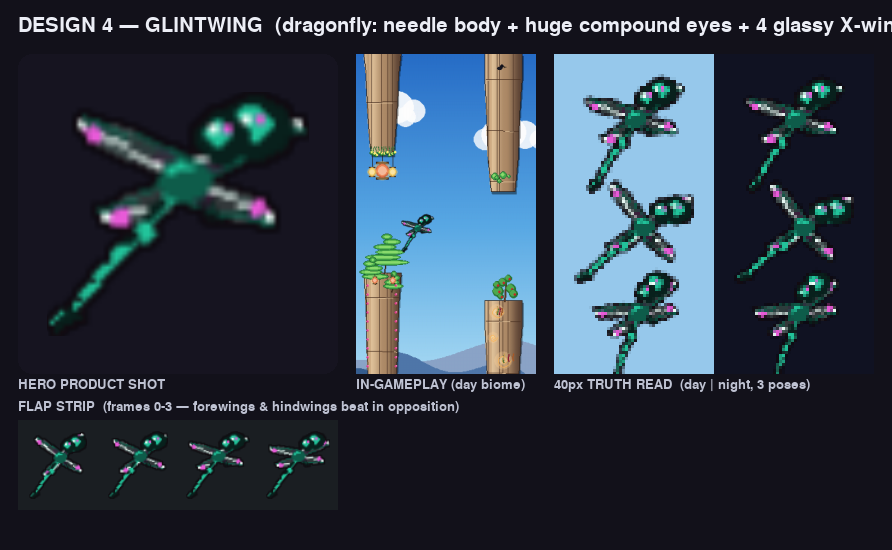
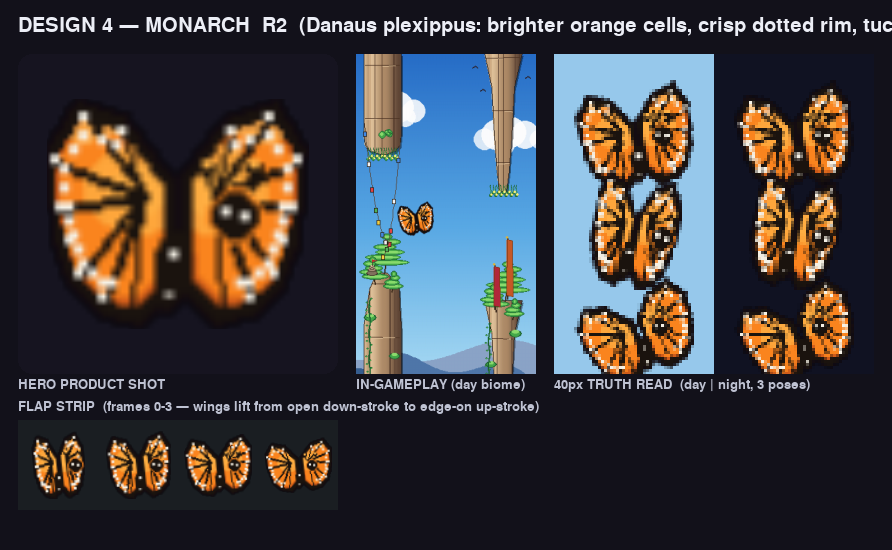
bug/bee design_4 MONARCH R2
Address the C1 ITERATE critique on the monarch butterfly candidate:
- Short tapered abdomen that rides the shared wing lift, so the tail
  never drips below the hindwing on the up-stroke.
- Demote the white flecks to a sparse 1px outer row + a fine 1px inner
  row so the rim reads as crisp broken dots, not a lace halo.
- Thin the SHADOW rim and brighten MONARCH so margin cells stay vivid
  orange; blush the forewing tips brightest.
- Push the wing apex up-and-out and reach the canvas edge to fill the
  frame; round the hindwing bottom lobe.
- Give the head bead a 1px warm value break and lighter antenna club tips.

Scratch exploration only; production art untouched.

Claude-Session: https://claude.ai/code/session_01K6KPJsdtoYoDR2za2Jqnmo

diff --git a/tools/bee_candidates/design_4.py b/tools/bee_candidates/design_4.py
@@ -22,11 +22,13 @@ HCX, HCY = 44, 34          # head, up-right along the insect axis
 CROWN_Y = 24
 
 # ── palette ──────────────────────────────────────────────────────────────────
-MONARCH = (242, 122, 26)   # #F27A1A — dominant wing fill
+MONARCH = (250, 132, 30)   # #FA841E — dominant wing fill, one step brighter so
+                           # cells stay vivid orange (not brown) at 40px
 INK     = (26, 19, 14)     # #1A130E — veins, margin, head, body
 FLAKE   = (245, 241, 230)  # #F5F1E6 — margin dots + head/body specks
 AMBER   = (255, 179, 71)   # #FFB347 — warm gradient core near the thorax
-SHADOW  = (196, 83, 26)    # #C4531A — deeper saturated orange at the edges
+BRIGHT  = (255, 176, 80)   # #FFB050 — forewing-tip highlight (tips read bright)
+SHADOW  = (208, 92, 26)    # #D05C1A — thin saturated edge only, not a wide ring
 
 
 def _new():
@@ -44,16 +46,16 @@ def _flap(a):
 # edges sit ~2px off the body axis so the mirrored left wing nearly meets it,
 # leaving a thin central channel for the black body.
 _WING_R = [
-    (34, 28),   # inner top, ~2px off the body axis
-    (44, 16),   # forewing leading rise
-    (54, 13),   # forewing apex — up and out
-    (62, 22),   # forewing outer shoulder — fills the width
-    (61, 33),   # forewing trailing outer
+    (34, 26),   # inner top, ~2px off the body axis
+    (45, 13),   # forewing leading rise
+    (56, 10),   # forewing apex — pushed up-and-out to fill the top corner
+    (63, 20),   # forewing outer shoulder — reaches the canvas edge for width
+    (62, 32),   # forewing trailing outer
     (60, 40),   # shallow notch between fore/hind wing (rounded card)
-    (58, 48),   # hindwing outer
-    (50, 58),   # hindwing rounded tail lobe
-    (40, 60),   # hindwing bottom
-    (34, 48),   # inner bottom, ~2px off the body axis
+    (57, 48),   # hindwing outer
+    (50, 54),   # hindwing rounded lobe
+    (42, 56),   # hindwing bottom — rounded card, no drooping moth-tail point
+    (34, 49),   # inner bottom, ~2px off the body axis
 ]
 
 
@@ -89,20 +91,24 @@ def _draw_wing(surf, side, spread, nx):
     fill = _inset(margin, 0.14)                     # thick ~6px black margin
 
     # Black margin first (the separator that carries the read on any sky), then
-    # the warm three-stop orange field: a deep-orange base that survives at the
-    # extremities, the dominant monarch orange over most of the face, and an
-    # amber core blushed in at the thorax root.
+    # the orange field. SHADOW is now only a thin saturated rim; MONARCH covers
+    # the cells so nothing near the margin reads brown at 40px.
     pygame.draw.polygon(surf, INK, margin)
     pygame.draw.polygon(surf, SHADOW, fill)
-    inner = _inset(fill, 0.10)
+    inner = _inset(fill, 0.06)
     pygame.draw.polygon(surf, MONARCH, inner)
 
     fcx, fcy = _centroid(fill)
     rx, ry = margin[0]                               # wing root (inner-top)
     root = (rx + (fcx - rx) * 0.42, ry + (fcy - ry) * 0.42)
     core = _new()
-    for r, col, a in ((16, MONARCH, 160), (12, AMBER, 190), (7, AMBER, 230)):
+    for r, col, a in ((16, MONARCH, 150), (12, AMBER, 185), (7, AMBER, 225)):
         _aaellipse(core, (*col, a), root, r, r * 0.82)
+    # The forewing tip is where a monarch is brightest — blush it, don't darken.
+    tip, lead = fill[2], fill[1]
+    mid = ((tip[0] + lead[0]) / 2, (tip[1] + lead[1]) / 2)
+    _aaellipse(core, (*BRIGHT, 200), tip, 7, 6)
+    _aaellipse(core, (*BRIGHT, 225), mid, 4, 4)
     core.blit(_wing_mask(fill), (0, 0), special_flags=pygame.BLEND_RGBA_MIN)
     surf.blit(core, (0, 0))
 
@@ -114,68 +120,76 @@ def _draw_wing(surf, side, spread, nx):
     pygame.draw.line(surf, INK, root, fill[1], 1)
     pygame.draw.line(surf, INK, root, fill[8], 1)
 
-    # Double row of white flecks marching along the black margin — the monarch's
-    # signature border dots. Sampled along each outer edge and offset inward so
-    # they always sit ON the black band, never on the orange (true to species).
+    # White margin flecks — the monarch's signature border dots. Kept crisp and
+    # broken (identity is ORANGE first, dots second): a sparse 1px outer row
+    # (one dot per edge segment) plus a finer 1px inner row as a second line, so
+    # at 40px it reads as a dotted rim, never a frosted lace halo.
     outer = margin[1:9]
     for i in range(len(outer) - 1):
         a0, a1 = outer[i], outer[i + 1]
+        ox = a0[0] + (fcx - a0[0]) * 0.14
+        oy = a0[1] + (fcy - a0[1]) * 0.14
+        pygame.draw.circle(surf, FLAKE, (int(ox), int(oy)), 1)
         for t in (0.0, 0.5):
             ex = a0[0] + (a1[0] - a0[0]) * t
             ey = a0[1] + (a1[1] - a0[1]) * t
-            # Outer row (larger) near the rim, inner row (smaller) toward fill.
-            ox = ex + (fcx - ex) * 0.12
-            oy = ey + (fcy - ey) * 0.12
-            ix = ex + (fcx - ex) * 0.28
-            iy = ey + (fcy - ey) * 0.28
-            pygame.draw.circle(surf, FLAKE, (int(ox), int(oy)), 2)
+            ix = ex + (fcx - ex) * 0.30
+            iy = ey + (fcy - ey) * 0.30
             pygame.draw.circle(surf, FLAKE, (int(ix), int(iy)), 1)
 
 
-def _draw_body(surf):
-    # Slim black abdomen trailing lower-left along the insect axis, flecked with
-    # white — the monarch's spotted body — tucked into the central wing channel.
+def _draw_body(surf, lift=0):
+    # Short black abdomen tapering to a point well above the hindwing lobe, so
+    # it never drips out the bottom on the up-stroke. The whole body assembly
+    # rides `lift` with the wings, keeping the tail tucked in every frame.
+    L = lift
     pygame.draw.polygon(surf, INK, [
-        (BCX - 3, BCY - 1), (BCX + 3, BCY - 1),
-        (BCX - 3, BCY + 15), (BCX - 7, BCY + 17),
+        (BCX - 3, BCY - L), (BCX + 3, BCY - L),
+        (BCX + 1, BCY + 5 - L),
+        (BCX - 3, BCY + 9 - L),                      # tail point, ~BCY+9
+        (BCX - 5, BCY + 4 - L),
     ])
-    for (fx, fy) in ((BCX - 1, BCY + 3), (BCX - 2, BCY + 7),
-                     (BCX - 4, BCY + 11)):
-        pygame.draw.circle(surf, FLAKE, (fx, fy), 1)
+    for (fx, fy) in ((BCX - 1, BCY + 2), (BCX - 2, BCY + 6)):
+        pygame.draw.circle(surf, FLAKE, (fx, fy - L), 1)
     # Furred thorax bead.
-    _aaellipse(surf, INK, (BCX, BCY), 5, 7)
-    pygame.draw.circle(surf, FLAKE, (BCX - 1, BCY - 2), 1)
+    _aaellipse(surf, INK, (BCX, BCY - L), 5, 7)
+    pygame.draw.circle(surf, FLAKE, (BCX - 1, BCY - 2 - L), 1)
 
 
-def _draw_head(surf):
+def _draw_head(surf, lift=0):
     # Two thin CLUBBED antennae (true butterfly) sweeping up-and-out to the
-    # crown, each ending in an ink ball.
-    for (tx, ty) in ((HCX - 6, CROWN_Y), (HCX + 4, CROWN_Y)):
-        sx, sy = HCX + (1 if tx > HCX else -1), HCY - 4
+    # crown, each ending in an ink ball with a lighter tip pixel.
+    L = lift
+    for (tx, ty) in ((HCX - 6, CROWN_Y - L), (HCX + 4, CROWN_Y - L)):
+        sx, sy = HCX + (1 if tx > HCX else -1), HCY - 4 - L
         mx = (sx + tx) / 2 + (2 if tx > HCX else -2)
         my = (sy + ty) / 2
         pygame.draw.lines(surf, INK, False,
                           [(sx, sy), (mx, my), (tx, ty)], 1)
         pygame.draw.circle(surf, INK, (tx, ty), 2)
-    # Black head bead with a pair of white specks.
-    _aaellipse(surf, INK, (HCX, HCY), 5, 5)
-    pygame.draw.circle(surf, FLAKE, (HCX - 2, HCY - 1), 1)
-    pygame.draw.circle(surf, FLAKE, (HCX + 2, HCY), 1)
+        pygame.draw.circle(surf, AMBER, (tx, ty - 1), 1)
+    # A thin warm ring gives the head bead a 1px value break from the dark
+    # veins/thorax so it stays a distinct bead, not part of the wing mass.
+    _aaellipse(surf, MONARCH, (HCX, HCY - L), 6, 6)
+    _aaellipse(surf, INK, (HCX, HCY - L), 5, 5)
+    pygame.draw.circle(surf, FLAKE, (HCX - 2, HCY - 1 - L), 1)
+    pygame.draw.circle(surf, FLAKE, (HCX + 2, HCY - L), 1)
 
 
 def _build_frame(wing_angle_deg):
     surf = _new()
     f = _flap(wing_angle_deg)
-    spread = int(f * 18)           # lift the wings as the stroke rises
-    # Cap the horizontal narrowing so even the edge-on up-stroke stays legibly
-    # winged — the lifted `spread` carries the "wings raised" read.
-    nx = 1.0 - 0.30 * f
+    # Butterfly wings raise by rotating about the body axis, so the flap read
+    # comes mostly from the horizontal narrowing; a gentle shared lift adds life
+    # without the abdomen ever poking below the wings.
+    spread = int(f * 9)
+    nx = 1.0 - 0.42 * f
 
     # Far (left) wing behind the body, near (right) wing in front of the roots.
     _draw_wing(surf, -1, spread, nx)
-    _draw_body(surf)
+    _draw_body(surf, spread)
     _draw_wing(surf, +1, spread, nx)
-    _draw_head(surf)
+    _draw_head(surf, spread)
     return surf
 
 

diff --git a/tools/bee_candidates/_render_design_4.py b/tools/bee_candidates/_render_design_4.py
@@ -16,9 +16,9 @@ pygame.init()
 from tools import ninja_render
 from tools.bee_candidates.design_4 import build
 
-OUT = "docs/store_redesign/animal/bee/design_4/round_1.png"
-TITLE = ("DESIGN 4 — MONARCH  (Danaus plexippus: rounded stained-glass wings, "
-         "black veins, white-dotted margin)")
+OUT = "docs/store_redesign/animal/bee/design_4/round_2.png"
+TITLE = ("DESIGN 4 — MONARCH  R2  (Danaus plexippus: brighter orange cells, "
+         "crisp dotted rim, tucked abdomen, fuller wings)")
 
 
 def _label(surf, text, x, y, size=18, color=(236, 238, 246)):
